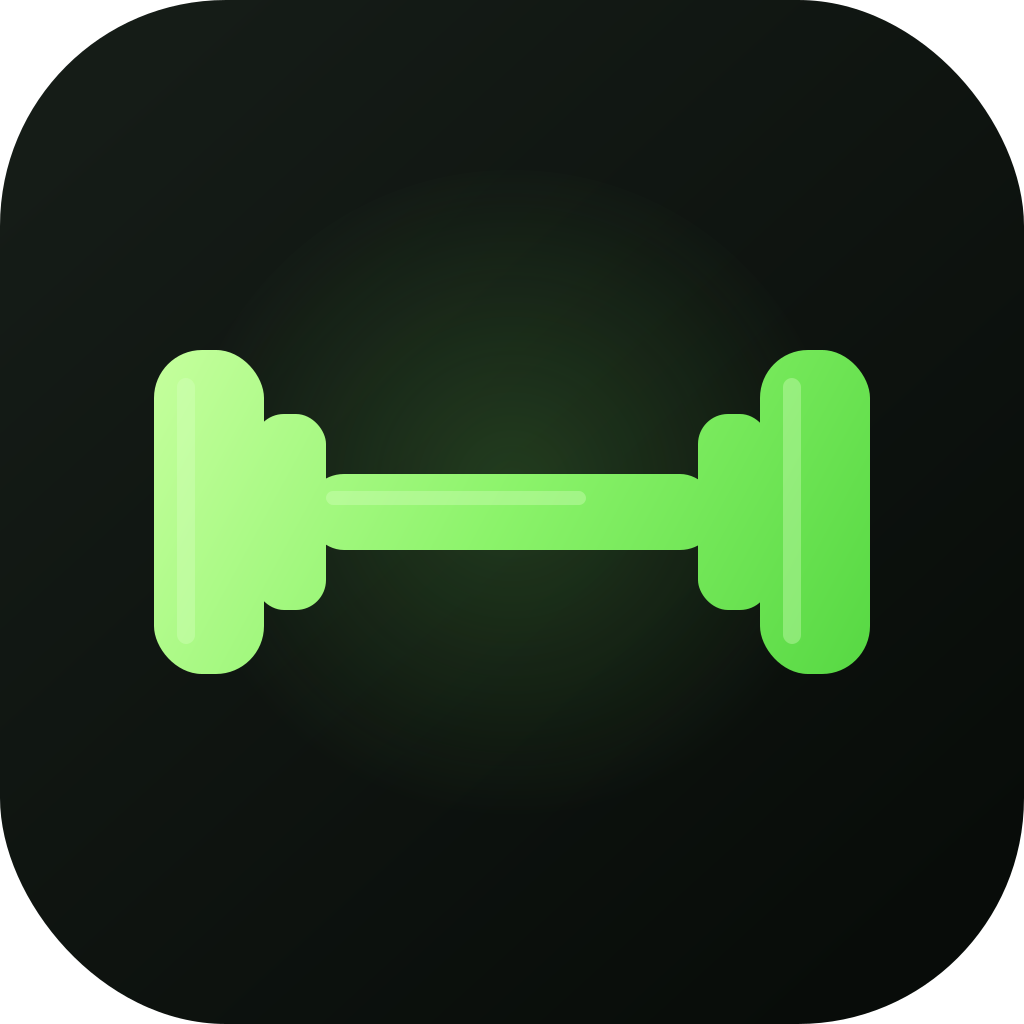
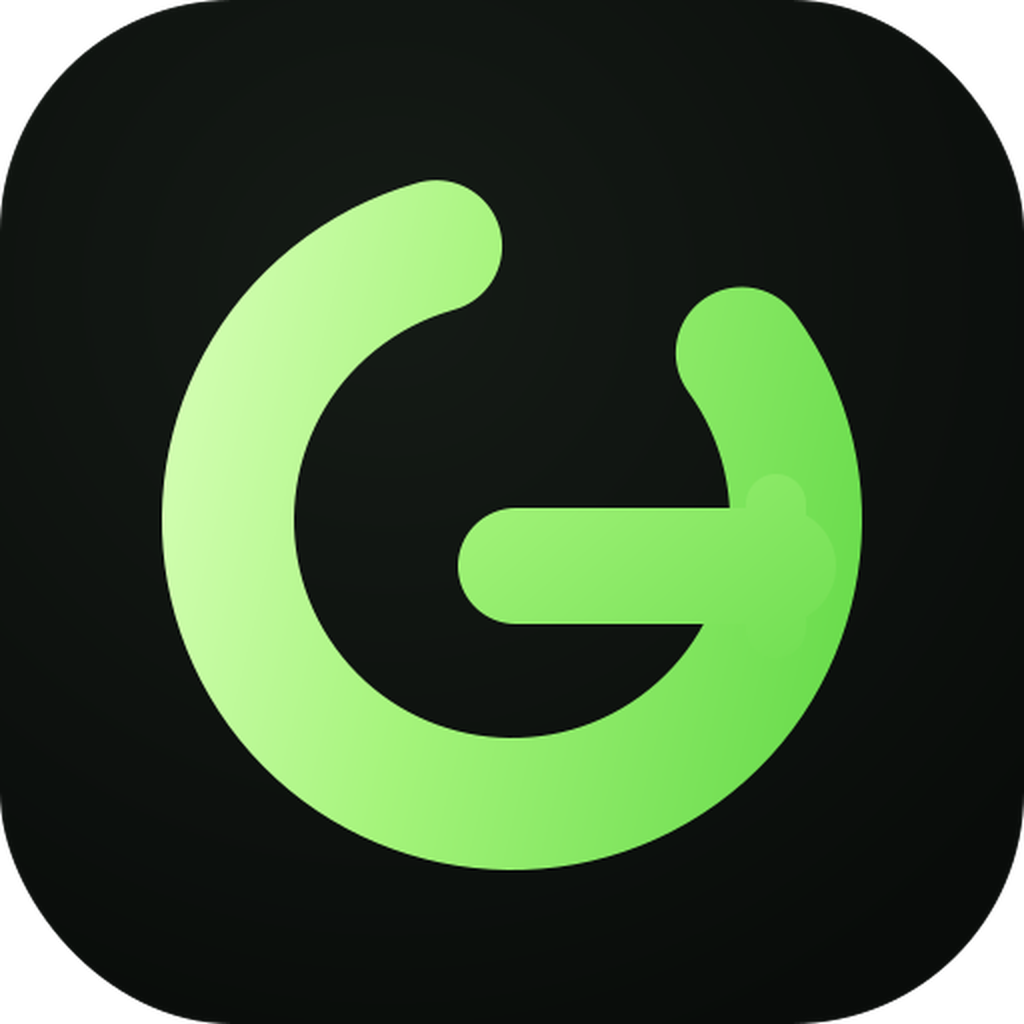
Add files via upload

diff --git a/app.js b/app.js
@@ -20,8 +20,19 @@ function exerciseMedia(id,e,extraClass=''){
   const fallback=FILE_EXERCISE_MEDIA[id]||'';
   return `<div class="exercise-media anatomical-media ${extraClass}"><img src="${src}" data-fallback="${fallback}" alt="Ilustração anatômica de ${e.name}, com a musculatura trabalhada destacada" loading="lazy" decoding="async" onerror="handleExerciseImageError(this)"></div>`;
 }
-function brandMark(){
- return `<img class="gym-brand-img" src="./gym-icon-v62-512.png?v=6.2" alt="GYM">`;
+function brandMark(){return `<svg class="gym-mark" viewBox="0 0 120 120" role="img" aria-label="GYM"><rect x="3" y="3" width="114" height="114" rx="30" fill="#15131b" stroke="#6fe356" stroke-width="4"/><path d="M46 52 60 64 74 52 87 63v18L60 105 33 81V63z" fill="none" stroke="#6fe356" stroke-width="7" stroke-linejoin="round"/><path d="M18 55h11m-6-10v20m74-10h-6m3-10v20M29 49v12m62-12v12" stroke="#6fe356" stroke-width="7" stroke-linecap="round"/><path d="m48 30 8-12 7 10 9-12 9 14" fill="none" stroke="#f0c35a" stroke-width="6" stroke-linecap="round" stroke-linejoin="round"/><path d="M47 34h36" stroke="#f0c35a" stroke-width="6" stroke-linecap="round"/></svg>`}
+
+const icon=n=>`<svg class="icon"><use href="#i-${n}"></use></svg>`;
+const today=()=>new Date().toISOString().slice(0,10);
+const uid=()=>crypto.randomUUID?.()||Math.random().toString(36).slice(2);
+const fmt=d=>new Date(d+'T12:00:00').toLocaleDateString('pt-BR',{day:'2-digit',month:'short'});
+const clamp=(n,a,b)=>Math.max(a,Math.min(b,n));
+
+const EVIDENCE={
+ acsm:{title:'ACSM Position Stand — Resistance Training (2026)',note:'A programação prioriza regularidade, esforço adequado, progressão e trabalho dos grandes grupos musculares; complexidade não substitui consistência.',url:'https://acsm.org/resistance-training-guidelines-update-2026/'},
+ who:{title:'WHO Guidelines on Physical Activity',note:'A meta de cardio é progressiva e considera a recomendação populacional de 150–300 min/semana de atividade moderada, respeitando tolerância individual.',url:'https://www.who.int/publications/i/item/9789240015128'},
+ obesity:{title:'Lopez et al. — Systematic review and meta-analysis',note:'Programas baseados em treinamento resistido podem melhorar composição corporal em pessoas com sobrepeso ou obesidade, especialmente em abordagem multicomponente.',url:'https://pubmed.ncbi.nlm.nih.gov/35191588/'},
+ knee:{title:'Resistance training and knee symptoms — systematic reviews',note:'Fortalecimento pode integrar o manejo de sintomas e função, mas dose, amplitude e seleção precisam ser individualizadas e interrompidas diante de sinais de alerta.',url:'https://pubmed.ncbi.nlm.nih.gov/38980284/'}
 };
 
 const CARDIO={"treadmill":{"name":"Esteira","short":"esteira","desc":"Caminhada ou trote com velocidade e inclinação controladas.","impact":"médio"},"elliptical":{"name":"Elíptico","short":"elíptico","desc":"Cardio contínuo com baixo impacto.","impact":"baixo"},"bike_h":{"name":"Bike horizontal","short":"bike horizontal","desc":"Opção estável e confortável para maior suporte.","impact":"baixo"},"bike_v":{"name":"Bike vertical","short":"bike vertical","desc":"Bicicleta ergométrica tradicional ou spinning.","impact":"baixo"},"walk":{"name":"Caminhada externa","short":"caminhada","desc":"Cardio fora da academia com ritmo registrado.","impact":"baixo"},"stair":{"name":"Escada","short":"escada","desc":"Escada ergométrica com nível ajustável.","impact":"médio"},"rower":{"name":"Remo ergométrico","short":"remo","desc":"Cardio que integra pernas, tronco e braços.","impact":"baixo"},"jump_rope":{"name":"Pular corda","short":"corda","desc":"Cardio de maior impacto e coordenação.","impact":"alto"},"curved_treadmill":{"name":"Esteira curva manual","short":"esteira curva","desc":"Caminhada ou corrida em esteira sem motor.","impact":"médio"}};
@@ -267,7 +278,7 @@ function cardioSummaryBlock(){
 
 function reportsScreen(){
  const sessions=Array.isArray(state.sessions)?state.sessions:[],mins=sessions.reduce((a,x)=>a+(+x?.duration||0),0),cardio=sessions.reduce((a,x)=>a+(+x?.cardio||0),0),metrics=(Array.isArray(state.metrics)?state.metrics:[]).slice(-10),lastMetric=metrics.length?metrics[metrics.length-1]:null,readiness=overallRecoveryScore();
- return `<section class="hero"><span class="eyebrow">RELATÓRIOS</span><h2>Progresso de fácil leitura.</h2><p>Treino, peso, volume, aderência, cardio e recuperação no mesmo painel.</p></section><div class="card report-export-card"><div class="row between report-export-row"><div><span class="eyebrow">RELATÓRIO COMPLETO</span><h3 style="margin-top:5px">Gerar relatório em PDF</h3><p class="muted small">Abre uma versão organizada para salvar como PDF ou imprimir.</p></div><div class="report-export-actions"><select id="pdfPeriod" aria-label="Período do relatório"><option value="30">Últimos 30 dias</option><option value="90" selected>Últimos 90 dias</option><option value="180">Últimos 6 meses</option><option value="all">Todo o histórico</option></select><button class="btn primary" onclick="generateProgressPdf()">${icon('chart')} Gerar PDF</button></div></div></div><div class="grid grid3 premium-metrics" style="margin-top:12px"><div class="metric"><b>${sessions.length}</b><span>treinos concluídos</span></div><div class="metric"><b>${mins}</b><span>min de força</span></div><div class="metric"><b>${cardio}</b><span>min de cardio</span></div></div><div class="card premium-insight"><span class="eyebrow">RESUMO PREMIUM</span><div class="grid grid3" style="margin-top:10px"><div><b>${readiness}%</b><span>prontidão geral</span></div><div><b>${Math.round(sessions.length/Math.max(1,+state.profile?.days||1)*100)}%</b><span>aderência acumulada</span></div><div><b>${lastMetric?.weight||state.profile?.weight||'—'} kg</b><span>peso mais recente</span></div></div></div><div class="card premium-recovery"><div class="row between"><div><h3>Fadiga e recuperação muscular</h3><span class="muted small">Grupos com maior fadiga aparecem primeiro.</span></div><div class="recovery-ring small-ring" style="--score:${readiness*3.6}deg"><div><b>${readiness}%</b><span>${overallRecoveryLabel()}</span></div></div></div>${recoveryCheckinSummary()}<button class="btn secondary block" style="margin:10px 0 12px" onclick="recoveryCheckinModal()">Atualizar check-in</button>${recoveryBlock(8,true)}</div><div class="card"><div class="row between"><div><h3>Peso</h3><span class="muted small">Últimos registros</span></div><button class="btn secondary sm" onclick="metricModal()">${icon('plus')} Registrar</button></div>${weightChart(metrics)}</div><div class="card"><h3>Volume por sessão</h3>${volumeChart(sessions.slice(-8))}</div><div class="card"><h3>Cardio por aparelho</h3>${cardioSummaryBlock()}</div><div class="card"><h3>Evolução por exercício</h3><select id="reportEx" onchange="renderExerciseReport(this.value)">${Object.entries(EX).map(([id,e])=>`<option value="${id}">${e.name}</option>`).join('')}</select><div id="exerciseReport">${exerciseReportHtml('legpressh')}</div></div><div class="card"><h3>Histórico</h3>${sessions.slice().reverse().map(x=>`<div class="row between" style="padding:11px 0;border-bottom:1px solid var(--line)"><div><b>${x.name}</b><div class="muted small">${fmt(x.date)} · ${x.duration} min · cardio ${x.cardio} min${x.cardioType?` · ${cardioName(x.cardioType)}`:''}</div></div><button class="btn secondary sm" onclick="sessionDetail('${x.id}')">Ver</button></div>`).join('')||'<p class="muted">Seu relatório aparece após o primeiro treino.</p>'}</div>`;
+ return `<section class="hero"><span class="eyebrow">RELATÓRIOS</span><h2>Progresso de fácil leitura.</h2><p>Treino, peso, volume, aderência, cardio e recuperação no mesmo painel.</p></section><div class="card report-export-card"><div class="row between report-export-row"><div><span class="eyebrow">RELATÓRIO COMPLETO</span><h3 style="margin-top:5px">Gerar relatório em PDF</h3><p class="muted small">Abre uma versão organizada para salvar como PDF ou imprimir.</p></div><div class="report-export-actions"><select id="pdfPeriod" aria-label="Período do relatório"><option value="month" selected>Mês atual</option><option value="30">Últimos 30 dias</option><option value="90">Últimos 90 dias</option><option value="180">Últimos 6 meses</option><option value="all">Todo o histórico</option></select><button class="btn primary" onclick="generateProgressPdf()">${icon('chart')} Gerar PDF</button></div></div></div><div class="grid grid3 premium-metrics" style="margin-top:12px"><div class="metric"><b>${sessions.length}</b><span>treinos concluídos</span></div><div class="metric"><b>${mins}</b><span>min de força</span></div><div class="metric"><b>${cardio}</b><span>min de cardio</span></div></div><div class="card premium-insight"><span class="eyebrow">RESUMO PREMIUM</span><div class="grid grid3" style="margin-top:10px"><div><b>${readiness}%</b><span>prontidão geral</span></div><div><b>${Math.round(sessions.length/Math.max(1,+state.profile?.days||1)*100)}%</b><span>aderência acumulada</span></div><div><b>${lastMetric?.weight||state.profile?.weight||'—'} kg</b><span>peso mais recente</span></div></div></div><div class="card premium-recovery"><div class="row between"><div><h3>Fadiga e recuperação muscular</h3><span class="muted small">Grupos com maior fadiga aparecem primeiro.</span></div><div class="recovery-ring small-ring" style="--score:${readiness*3.6}deg"><div><b>${readiness}%</b><span>${overallRecoveryLabel()}</span></div></div></div>${recoveryCheckinSummary()}<button class="btn secondary block" style="margin:10px 0 12px" onclick="recoveryCheckinModal()">Atualizar check-in</button>${recoveryBlock(8,true)}</div><div class="card"><div class="row between"><div><h3>Peso</h3><span class="muted small">Últimos registros</span></div><button class="btn secondary sm" onclick="metricModal()">${icon('plus')} Registrar</button></div>${weightChart(metrics)}</div><div class="card"><h3>Volume por sessão</h3>${volumeChart(sessions.slice(-8))}</div><div class="card"><h3>Cardio por aparelho</h3>${cardioSummaryBlock()}</div><div class="card"><h3>Evolução por exercício</h3><select id="reportEx" onchange="renderExerciseReport(this.value)">${Object.entries(EX).map(([id,e])=>`<option value="${id}">${e.name}</option>`).join('')}</select><div id="exerciseReport">${exerciseReportHtml('legpressh')}</div></div><div class="card"><h3>Histórico</h3>${sessions.slice().reverse().map(x=>`<div class="row between" style="padding:11px 0;border-bottom:1px solid var(--line)"><div><b>${x.name}</b><div class="muted small">${fmt(x.date)} · ${x.duration} min · cardio ${x.cardio} min${x.cardioType?` · ${cardioName(x.cardioType)}`:''}</div></div><button class="btn secondary sm" onclick="sessionDetail('${x.id}')">Ver</button></div>`).join('')||'<p class="muted">Seu relatório aparece após o primeiro treino.</p>'}</div>`;
 }
 function weightChart(a){if(!a.length)return '<p class="muted">Sem dados.</p>';const vals=a.map(x=>+x.weight),min=Math.min(...vals)-1,max=Math.max(...vals)+1;return `<div class="chart">${a.map(x=>`<div class="chartbar" style="height:${35+(x.weight-min)/(max-min||1)*120}px"><b>${x.weight}</b><small>${fmt(x.date)}</small></div>`).join('')}</div>`}
 function sessionVolume(s){return (s?.exercises||[]).reduce((sum,e)=>sum+(e?.sets||[]).reduce((a,x)=>a+(x?.done?(+x.kg||0)*(+x.reps||0):0),0),0)}
@@ -284,6 +295,10 @@ function reportDate(value){if(!value)return '—';const d=new Date(String(value)
 function reportPeriodData(period){
  const allSessions=(Array.isArray(state.sessions)?state.sessions:[]).slice().sort((a,b)=>String(a.date).localeCompare(String(b.date))),allMetrics=(Array.isArray(state.metrics)?state.metrics:[]).slice().sort((a,b)=>String(a.date).localeCompare(String(b.date)));
  if(period==='all')return {sessions:allSessions,metrics:allMetrics,start:null};
+ if(period==='month'){
+  const now=new Date(),year=now.getFullYear(),month=now.getMonth()+1,iso=`${year}-${String(month).padStart(2,'0')}-01`;
+  return {sessions:allSessions.filter(x=>String(x.date||'')>=iso&&String(x.date||'')<=today()),metrics:allMetrics.filter(x=>String(x.date||'')>=iso&&String(x.date||'')<=today()),start:iso};
+ }
  const days=Math.max(1,+period||90),start=new Date();start.setHours(0,0,0,0);start.setDate(start.getDate()-days+1);const iso=start.toISOString().slice(0,10);
  return {sessions:allSessions.filter(x=>x.date>=iso),metrics:allMetrics.filter(x=>x.date>=iso),start:iso};
 }
@@ -554,14 +569,14 @@ function reportExerciseProgress(sessions){const map={};sessions.forEach(session=
 
 reportsScreen=function(){
  const sessions=Array.isArray(state.sessions)?state.sessions:[],mins=sessions.reduce((a,x)=>a+(+x?.duration||0),0),cardio=sessions.reduce((a,x)=>a+(+x?.cardio||0),0),metrics=(Array.isArray(state.metrics)?state.metrics:[]).slice(-10),lastMetric=metrics.at(-1)||null,readiness=overallRecoveryScore(),last7=sessionsSince(7),previous7=sessionsBetweenDays(14,7),last30=sessionsSince(30),previous30=sessionsBetweenDays(60,30),avgDuration=sessions.length?Math.round(mins/sessions.length):0,top=mostPerformedExercises(sessions),records=personalRecords(sessions);
- return `<section class="hero"><span class="eyebrow">RELATÓRIOS</span><h2>Sua evolução em um só lugar.</h2><p>Treinos, cargas, frequência, cardio, peso e recuperação no mesmo painel.</p></section><div class="card report-export-card"><div class="row between report-export-row"><div><span class="eyebrow">RELATÓRIO COMPLETO</span><h3 style="margin-top:5px">Gerar relatório em PDF</h3><p class="muted small">Abre uma versão organizada para salvar como PDF ou imprimir.</p></div><div class="report-export-actions"><select id="pdfPeriod" aria-label="Período do relatório"><option value="30">Últimos 30 dias</option><option value="90" selected>Últimos 90 dias</option><option value="180">Últimos 6 meses</option><option value="all">Todo o histórico</option></select><button class="btn primary" onclick="generateProgressPdf()">${icon('chart')} Gerar PDF</button></div></div></div><div class="grid grid3 premium-metrics" style="margin-top:12px"><div class="metric"><b>${sessions.length}</b><span>treinos concluídos</span></div><div class="metric"><b>${avgDuration}</b><span>min por treino</span></div><div class="metric"><b>${cardio}</b><span>min de cardio</span></div></div><div class="card premium-insight"><span class="eyebrow">FREQUÊNCIA</span><div class="grid grid3" style="margin-top:10px"><div><b>${last7.length}/${Math.max(1,+state.profile?.days||1)}</b><span>últimos 7 dias</span></div><div><b>${last30.length}</b><span>últimos 30 dias</span></div><div><b>${previous30.length}</b><span>30 dias anteriores</span></div></div><p class="muted small">${comparisonText(last30.length,previous30.length)}.</p></div><div class="card premium-recovery"><div class="row between"><div><h3>Fadiga e recuperação muscular</h3><span class="muted small">Grupos com maior fadiga aparecem primeiro.</span></div><div class="recovery-ring small-ring" style="--score:${readiness*3.6}deg"><div><b>${readiness}%</b><span>${overallRecoveryLabel()}</span></div></div></div>${recoveryCheckinSummary()}<button class="btn secondary block" style="margin:10px 0 12px" onclick="recoveryCheckinModal()">Atualizar check-in</button>${recoveryBlock(8,true)}</div><div class="card"><div class="row between"><div><h3>Peso e medidas</h3><span class="muted small">Últimos registros</span></div><button class="btn secondary sm" onclick="metricModal()">${icon('plus')} Registrar</button></div>${weightChart(metrics)}</div><div class="grid grid2"><div class="card"><h3>Exercícios mais realizados</h3>${top.length?top.map(([id,count],i)=>`<div class="row between report-list-row"><span>${i+1}. ${EX[id]?.name||id}</span><b>${count}×</b></div>`).join(''):'<p class="muted">Sem dados ainda.</p>'}</div><div class="card"><h3>Recordes pessoais</h3>${records.length?records.map(([id,kg])=>`<div class="row between report-list-row"><span>${EX[id]?.name||id}</span><b>${kg} kg</b></div>`).join(''):'<p class="muted">Registre cargas para ver seus recordes.</p>'}</div></div><div class="card"><h3>Cardio por aparelho</h3>${cardioSummaryBlock()}</div><div class="card"><h3>Evolução das cargas</h3><select id="reportEx" onchange="renderExerciseReport(this.value)">${Object.entries(EX).map(([id,e])=>`<option value="${id}">${e.name}</option>`).join('')}</select><div id="exerciseReport">${exerciseReportHtml('legpressh')}</div></div><div class="card"><h3>Histórico</h3>${sessions.slice().reverse().map(x=>`<div class="row between" style="padding:11px 0;border-bottom:1px solid var(--line)"><div><b>${x.name}</b><div class="muted small">${fmt(x.date)} · ${x.duration} min${+x.cardio>0?` · cardio ${x.cardio} min · ${cardioName(x.cardioType)}`:''}</div></div><button class="btn secondary sm" onclick="sessionDetail('${x.id}')">Ver</button></div>`).join('')||'<p class="muted">Seu relatório aparece após o primeiro treino.</p>'}</div>`;
+ return `<section class="hero"><span class="eyebrow">RELATÓRIOS</span><h2>Sua evolução em um só lugar.</h2><p>Treinos, cargas, frequência, cardio, peso e recuperação no mesmo painel.</p></section><div class="card report-export-card"><div class="row between report-export-row"><div><span class="eyebrow">RELATÓRIO COMPLETO</span><h3 style="margin-top:5px">Gerar relatório em PDF</h3><p class="muted small">Abre uma versão organizada para salvar como PDF ou imprimir.</p></div><div class="report-export-actions"><select id="pdfPeriod" aria-label="Período do relatório"><option value="month" selected>Mês atual</option><option value="30">Últimos 30 dias</option><option value="90">Últimos 90 dias</option><option value="180">Últimos 6 meses</option><option value="all">Todo o histórico</option></select><button class="btn primary" onclick="generateProgressPdf()">${icon('chart')} Gerar PDF</button></div></div></div><div class="grid grid3 premium-metrics" style="margin-top:12px"><div class="metric"><b>${sessions.length}</b><span>treinos concluídos</span></div><div class="metric"><b>${avgDuration}</b><span>min por treino</span></div><div class="metric"><b>${cardio}</b><span>min de cardio</span></div></div><div class="card premium-insight"><span class="eyebrow">FREQUÊNCIA</span><div class="grid grid3" style="margin-top:10px"><div><b>${last7.length}/${Math.max(1,+state.profile?.days||1)}</b><span>últimos 7 dias</span></div><div><b>${last30.length}</b><span>últimos 30 dias</span></div><div><b>${previous30.length}</b><span>30 dias anteriores</span></div></div><p class="muted small">${comparisonText(last30.length,previous30.length)}.</p></div><div class="card premium-recovery"><div class="row between"><div><h3>Fadiga e recuperação muscular</h3><span class="muted small">Grupos com maior fadiga aparecem primeiro.</span></div><div class="recovery-ring small-ring" style="--score:${readiness*3.6}deg"><div><b>${readiness}%</b><span>${overallRecoveryLabel()}</span></div></div></div>${recoveryCheckinSummary()}<button class="btn secondary block" style="margin:10px 0 12px" onclick="recoveryCheckinModal()">Atualizar check-in</button>${recoveryBlock(8,true)}</div><div class="card"><div class="row between"><div><h3>Peso e medidas</h3><span class="muted small">Últimos registros</span></div><button class="btn secondary sm" onclick="metricModal()">${icon('plus')} Registrar</button></div>${weightChart(metrics)}</div><div class="grid grid2"><div class="card"><h3>Exercícios mais realizados</h3>${top.length?top.map(([id,count],i)=>`<div class="row between report-list-row"><span>${i+1}. ${EX[id]?.name||id}</span><b>${count}×</b></div>`).join(''):'<p class="muted">Sem dados ainda.</p>'}</div><div class="card"><h3>Recordes pessoais</h3>${records.length?records.map(([id,kg])=>`<div class="row between report-list-row"><span>${EX[id]?.name||id}</span><b>${kg} kg</b></div>`).join(''):'<p class="muted">Registre cargas para ver seus recordes.</p>'}</div></div><div class="card"><h3>Cardio por aparelho</h3>${cardioSummaryBlock()}</div><div class="card"><h3>Evolução das cargas</h3><select id="reportEx" onchange="renderExerciseReport(this.value)">${Object.entries(EX).map(([id,e])=>`<option value="${id}">${e.name}</option>`).join('')}</select><div id="exerciseReport">${exerciseReportHtml('legpressh')}</div></div><div class="card"><h3>Histórico</h3>${sessions.slice().reverse().map(x=>`<div class="row between" style="padding:11px 0;border-bottom:1px solid var(--line)"><div><b>${x.name}</b><div class="muted small">${fmt(x.date)} · ${x.duration} min${+x.cardio>0?` · cardio ${x.cardio} min · ${cardioName(x.cardioType)}`:''}</div></div><button class="btn secondary sm" onclick="sessionDetail('${x.id}')">Ver</button></div>`).join('')||'<p class="muted">Seu relatório aparece após o primeiro treino.</p>'}</div>`;
 };
 
 generateProgressPdf=function(){
  const period=document.getElementById('pdfPeriod')?.value||'90',data=reportPeriodData(period),sessions=data.sessions,metrics=data.metrics,profile=state.profile||{},readiness=overallRecoveryScore(),strengthMinutes=sessions.reduce((sum,x)=>sum+(+x.duration||0),0),cardioMinutes=sessions.reduce((sum,x)=>sum+(+x.cardio||0),0),avgDuration=sessions.length?Math.round(strengthMinutes/sessions.length):0;
  const firstWeight=metrics.length?+metrics[0].weight:null,lastWeight=metrics.length?+metrics.at(-1).weight:null,weightDelta=firstWeight!==null&&lastWeight!==null?lastWeight-firstWeight:null,endLabel=reportDate(today()),startLabel=data.start?reportDate(data.start):(sessions[0]?.date?reportDate(sessions[0].date):'início do histórico');
  const cardioMap={};sessions.forEach(x=>{if(+x.cardio>0){const id=x.cardioType||'other';cardioMap[id]=(cardioMap[id]||0)+(+x.cardio||0)}});const cardioRows=Object.entries(cardioMap).sort((a,b)=>b[1]-a[1]),exerciseRows=reportExerciseProgress(sessions),recoveryRows=recoveryData().filter(x=>x.days!==null).sort((a,b)=>b.fatigue-a.fatigue),history=sessions.slice(-20).reverse(),top=mostPerformedExercises(sessions),records=personalRecords(sessions,10);
- const periodDays=period==='all'?Math.max(1,sessions.length?Math.round((new Date(today()+'T12:00:00')-new Date(sessions[0].date+'T12:00:00'))/86400000)+1:1):+period,previousStart=startOfDaysAgo(periodDays*2),previousEnd=startOfDaysAgo(periodDays),previousSessions=(state.sessions||[]).filter(s=>{const d=new Date(s.date+'T12:00:00');return d>=previousStart&&d<previousEnd});
+ const periodDays=period==='month'?Math.max(1,new Date().getDate()):period==='all'?Math.max(1,sessions.length?Math.round((new Date(today()+'T12:00:00')-new Date(sessions[0].date+'T12:00:00'))/86400000)+1:1):+period,previousStart=startOfDaysAgo(periodDays*2),previousEnd=startOfDaysAgo(periodDays),previousSessions=(state.sessions||[]).filter(s=>{const d=new Date(s.date+'T12:00:00');return d>=previousStart&&d<previousEnd});
  const win=window.open('','_blank');if(!win){toast('O navegador bloqueou a abertura do relatório. Permita pop-ups e tente novamente.');return;}
  const weightText=lastWeight===null?'—':`${lastWeight.toFixed(1)} kg`,deltaText=weightDelta===null?'Sem comparação':`${weightDelta>0?'+':''}${weightDelta.toFixed(1)} kg`;
  const html=`<!doctype html><html lang="pt-BR"><head><meta charset="utf-8"><meta name="viewport" content="width=device-width,initial-scale=1"><title>Relatório de progresso GYM</title><style>@page{size:A4;margin:12mm}*{box-sizing:border-box}body{font-family:Arial,Helvetica,sans-serif;color:#1d1b22;margin:0;background:#fff;font-size:12px;line-height:1.45}.top-actions{position:sticky;top:0;background:#fff;padding:10px 0;border-bottom:1px solid #ddd;margin-bottom:14px}.top-actions button{border:0;border-radius:8px;padding:10px 16px;background:#66d34e;color:#fff;font-weight:700}.head{display:flex;justify-content:space-between;gap:20px;border-bottom:3px solid #66d34e;padding-bottom:12px;margin-bottom:16px}.brand{font-size:26px;font-weight:900}.brand span{display:block;color:#66d34e;font-size:11px;letter-spacing:2px}.muted{color:#666}.grid{display:grid;grid-template-columns:repeat(4,1fr);gap:8px;margin:12px 0 18px}.metric{border:1px solid #ddd;border-radius:10px;padding:10px}.metric b{display:block;font-size:18px;color:#4fb83a}.section{margin:16px 0;page-break-inside:avoid}.section h2{font-size:16px;margin:0 0 8px;border-left:4px solid #66d34e;padding-left:8px}table{width:100%;border-collapse:collapse;font-size:11px}th,td{border:1px solid #ddd;padding:7px;text-align:left;vertical-align:top}th{background:#f5edf1}.pill{display:inline-block;border-radius:999px;background:#f4e6ec;padding:3px 7px}.note{background:#f7f7f7;border-radius:8px;padding:10px;margin-top:12px}.footer{margin-top:18px;border-top:1px solid #ddd;padding-top:8px;color:#666;font-size:10px}.empty{color:#777;font-style:italic}.bar{height:7px;background:#eee;border-radius:6px;overflow:hidden;margin-top:4px}.bar span{display:block;height:100%;background:#66d34e}@media print{.top-actions{display:none}.section{break-inside:avoid}body{font-size:11px}}</style></head><body><div class="top-actions"><button onclick="window.print()">Salvar como PDF / Imprimir</button></div><header class="head"><div><div class="brand">GYM<span>RELATÓRIO DE PROGRESSO</span></div><div class="muted">${reportEscape(profile.name||'Atleta')}</div></div><div style="text-align:right"><b>Período</b><br>${startLabel} a ${endLabel}<br><span class="muted">Gerado em ${new Date().toLocaleString('pt-BR')}</span></div></header><div class="grid"><div class="metric"><b>${sessions.length}</b>treinos concluídos</div><div class="metric"><b>${avgDuration}</b>min por treino</div><div class="metric"><b>${cardioMinutes}</b>min de cardio</div><div class="metric"><b>${comparisonText(sessions.length,previousSessions.length)}</b>comparação</div><div class="metric"><b>${weightText}</b>peso mais recente</div><div class="metric"><b>${deltaText}</b>variação de peso</div><div class="metric"><b>${readiness}%</b>prontidão atual</div><div class="metric"><b>${records.length}</b>recordes registrados</div></div><section class="section"><h2>Evolução de peso e medidas</h2>${metrics.length?`<table><thead><tr><th>Data</th><th>Peso</th><th>Cintura</th><th>Abdômen</th><th>Quadril</th><th>Coxa</th></tr></thead><tbody>${metrics.map(x=>`<tr><td>${reportDate(x.date)}</td><td>${x.weight??'—'} kg</td><td>${x.waist??'—'}</td><td>${x.abd??'—'}</td><td>${x.hip??'—'}</td><td>${x.thigh??'—'}</td></tr>`).join('')}</tbody></table>`:'<p class="empty">Nenhum registro de peso ou medidas neste período.</p>'}</section><section class="section"><h2>Evolução das cargas</h2>${exerciseRows.length?`<table><thead><tr><th>Exercício</th><th>Sessões</th><th>Primeira carga máx.</th><th>Última carga máx.</th><th>Recorde</th></tr></thead><tbody>${exerciseRows.slice(0,30).map(x=>`<tr><td>${reportEscape(EX[x.id]?.name||x.id)}</td><td>${x.count}</td><td>${x.firstKg||'—'} kg</td><td>${x.lastKg||'—'} kg</td><td>${x.bestKg||'—'} kg</td></tr>`).join('')}</tbody></table>`:'<p class="empty">Ainda não existem cargas registradas neste período.</p>'}</section><section class="section"><h2>Exercícios mais realizados</h2>${top.length?`<table><thead><tr><th>Exercício</th><th>Sessões</th></tr></thead><tbody>${top.map(([id,count])=>`<tr><td>${reportEscape(EX[id]?.name||id)}</td><td>${count}</td></tr>`).join('')}</tbody></table>`:'<p class="empty">Sem dados.</p>'}</section><section class="section"><h2>Cardio por aparelho</h2>${cardioRows.length?`<table><thead><tr><th>Modalidade</th><th>Minutos</th></tr></thead><tbody>${cardioRows.map(([id,min])=>`<tr><td>${reportEscape(id==='other'?'Outro cardio':cardioName(id))}</td><td>${Math.round(min)}</td></tr>`).join('')}</tbody></table>`:'<p class="empty">Nenhum cardio registrado neste período.</p>'}</section><section class="section"><h2>Fadiga e recuperação atual</h2>${recoveryRows.length?`<table><thead><tr><th>Grupo muscular</th><th>Status</th><th>Fadiga estimada</th><th>Orientação</th></tr></thead><tbody>${recoveryRows.map(x=>`<tr><td>${reportEscape(x.label)}</td><td><span class="pill">${reportEscape(x.status)}</span></td><td>${x.fatigue}%<div class="bar"><span style="width:${x.fatigue}%"></span></div></td><td>${reportEscape(x.recommendation)}</td></tr>`).join('')}</tbody></table>`:'<p class="empty">Conclua treinos para calcular a estimativa por grupo muscular.</p>'}<div class="note">A fadiga é uma estimativa organizacional baseada em tempo desde o treino, séries, esforço geral, desconforto e check-in. Não é uma medição clínica.</div></section><section class="section"><h2>Histórico recente</h2>${history.length?`<table><thead><tr><th>Data</th><th>Treino</th><th>Duração</th><th>Cardio</th><th>RPE</th></tr></thead><tbody>${history.map(x=>`<tr><td>${reportDate(x.date)}</td><td>${reportEscape(x.name||'Treino')}</td><td>${+x.duration||0} min</td><td>${+x.cardio||0} min${x.cardioType?` - ${reportEscape(cardioName(x.cardioType))}`:''}</td><td>${x.rpe||'—'}</td></tr>`).join('')}</tbody></table>`:'<p class="empty">Nenhum treino concluído neste período.</p>'}</section><div class="footer">Relatório gerado pelo GYM Premium. Dados informados pela própria pessoa usuária e destinados ao acompanhamento pessoal. Não substitui avaliação de profissional de Educação Física ou de saúde.</div></body></html>`;
@@ -1025,11 +1040,11 @@ bodyHistoryModal=function(){
 
 
 /* ===== GYM v6.0 INDIVIDUAL ===== */
-const GYM_V60='6.2.0';
+const GYM_V60='6.2.1';
 let bodyChartPeriod='all';
 
 function brandMark(){
- return `<img class="gym-brand-img" src="./gym-icon-v62-512.png?v=6.2" alt="GYM">`;
+ return `<svg class="gym-mark" viewBox="0 0 120 120" role="img" aria-label="GYM"><defs><linearGradient id="gymBrandGradient" x1="25" y1="18" x2="96" y2="104" gradientUnits="userSpaceOnUse"><stop offset="0" stop-color="#d8ffb8"/><stop offset=".42" stop-color="#a5f47b"/><stop offset="1" stop-color="#63d947"/></linearGradient></defs><rect x="3" y="3" width="114" height="114" rx="30" fill="#0b100c"/><circle cx="60" cy="59" r="33" fill="none" stroke="url(#gymBrandGradient)" stroke-width="15" stroke-linecap="round" stroke-dasharray="168 55" transform="rotate(-36 60 59)"/><path d="M61 65h31" fill="none" stroke="url(#gymBrandGradient)" stroke-width="13" stroke-linecap="round"/><path d="M91 58v15" fill="none" stroke="url(#gymBrandGradient)" stroke-width="7" stroke-linecap="round"/></svg>`;
 }
 
 const normalizeStateV60Base=normalizeState;
@@ -1165,7 +1180,7 @@ const profileScreenV60Base=profileScreen;
 profileScreen=function(){
  let html=profileScreenV60Base(),prefs=exercisePrefs(),t=state.profile?.trainingPrefs||{};
  const block=`<div class="card"><h3>Avaliação e preferências</h3><p class="muted small">${t.experience==='beginner'?'Iniciante':t.experience==='advanced'?'Avançada':'Intermediária'} · ${t.preferredDuration||state.profile?.duration||60} min por treino · ${prefs.favorite.length} favoritos · ${prefs.avoid.length} evitados.</p><div class="grid grid2"><button class="btn secondary block" onclick="trainingAssessmentModal(false)">Atualizar avaliação</button><button class="btn ghost block" onclick="exercisePreferencesModal()">Favoritos e evitados</button></div></div>`;
- const anchor='<div class="card"><h3>Conta e sincronização</h3>';html=html.includes(anchor)?html.replace(anchor,block+anchor):html+block;html=html.replace(/GYM Premium v5\.18/g,'GYM v6.2 Individual');return html;
+ const anchor='<div class="card"><h3>Conta e sincronização</h3>';html=html.includes(anchor)?html.replace(anchor,block+anchor):html+block;html=html.replace(/GYM Premium v5\.18/g,'GYM v6.2.1 Individual');return html;
 };
 
 const reportsScreenV60Base=reportsScreen;
@@ -1187,33 +1202,4 @@ recoveryBlock=function(limit=8,detailed=false){const arr=recoveryData().filter(x
 
 /* ===== fim GYM v6.0 INDIVIDUAL ===== */
 
-
-/* ===== GYM v6.2 — logo consistente + relatório do mês atual ===== */
-const reportPeriodDataV62Base=reportPeriodData;
-reportPeriodData=function(period){
- if(period!=='month')return reportPeriodDataV62Base(period);
- const now=new Date(),year=now.getFullYear(),month=now.getMonth();
- const start=new Date(year,month,1);start.setHours(0,0,0,0);
- const end=new Date(year,month+1,1);end.setHours(0,0,0,0);
- const sessions=(state.sessions||[]).filter(item=>{const d=new Date(item.date+'T12:00:00');return d>=start&&d<end});
- const metrics=(state.metrics||[]).filter(item=>{const d=new Date(item.date+'T12:00:00');return d>=start&&d<end});
- return {sessions,metrics,start:`${year}-${String(month+1).padStart(2,'0')}-01`,end:today(),label:`${start.toLocaleDateString('pt-BR',{month:'long',year:'numeric'})}`};
-};
-function currentMonthReportLabel(){
- const txt=new Date().toLocaleDateString('pt-BR',{month:'long',year:'numeric'});
- return txt.charAt(0).toUpperCase()+txt.slice(1);
-}
-const reportsScreenV62Base=reportsScreen;
-reportsScreen=function(){
- let html=reportsScreenV62Base();
- const option30='<option value="30">Últimos 30 dias</option>';
- const option90='<option value="90" selected>Últimos 90 dias</option>';
- if(html.includes(option30)){
-  html=html.replace(option30,`<option value="month" selected>Mês atual — ${currentMonthReportLabel()}</option>${option30}`);
-  html=html.replace(option90,'<option value="90">Últimos 90 dias</option>');
- }
- return html;
-};
-/* ===== fim v6.2 ===== */
-
-boot();
+boot().catch(error=>{console.error('Falha ao iniciar GYM',error);try{renderRoot()}catch{const app=document.getElementById('app');if(app)app.innerHTML='<div class="auth-page"><div class="auth-card"><h2>Não foi possível iniciar o GYM</h2><p class="muted">Recarregue a página. Seus dados locais não foram apagados.</p></div></div>'}});

diff --git a/index.html b/index.html
@@ -1,13 +1,13 @@
 <!doctype html><html lang="pt-BR"><head>
 <meta charset="utf-8"><meta name="viewport" content="width=device-width,initial-scale=1,viewport-fit=cover">
-<meta name="theme-color" content="#0b100c"><meta name="msapplication-TileColor" content="#0b100c"><meta name="msapplication-TileImage" content="./gym-icon-v62-192.png"><meta name="format-detection" content="telephone=no"><meta name="mobile-web-app-capable" content="yes"><meta name="application-name" content="GYM"><meta name="apple-mobile-web-app-capable" content="yes"><meta name="apple-mobile-web-app-status-bar-style" content="black-translucent"><meta name="apple-mobile-web-app-title" content="GYM"><meta name="description" content="Treino adaptativo, recuperação muscular, cardio e relatórios.">
-<link rel="manifest" href="./manifest.json?v=6.2" crossorigin="use-credentials">
-<link rel="icon" type="image/x-icon" href="./favicon.ico?v=6.2">
-<link rel="icon" type="image/png" sizes="192x192" href="./gym-icon-v62-192.png?v=6.2">
-<link rel="icon" type="image/png" sizes="512x512" href="./gym-icon-v62-512.png?v=6.2">
-<link rel="shortcut icon" href="./favicon.ico?v=6.2">
-<link rel="apple-touch-icon" sizes="180x180" href="./gym-icon-v62-180.png?v=6.2">
-<link rel="stylesheet" href="styles.css?v=6.2"><title>GYM</title></head><body>
+<meta name="theme-color" content="#0b100c"><meta name="msapplication-TileColor" content="#0b100c"><meta name="msapplication-TileImage" content="./gym-icon-v621-192.png"><meta name="format-detection" content="telephone=no"><meta name="mobile-web-app-capable" content="yes"><meta name="application-name" content="GYM"><meta name="apple-mobile-web-app-capable" content="yes"><meta name="apple-mobile-web-app-status-bar-style" content="black-translucent"><meta name="apple-mobile-web-app-title" content="GYM"><meta name="description" content="Treino adaptativo, recuperação muscular, cardio e relatórios.">
+<link rel="manifest" href="./manifest.json?v=6.2.1" crossorigin="use-credentials">
+<link rel="icon" type="image/x-icon" href="./favicon.ico?v=6.2.1">
+<link rel="icon" type="image/png" sizes="192x192" href="./gym-icon-v621-192.png?v=6.2.1">
+<link rel="icon" type="image/png" sizes="512x512" href="./gym-icon-v621-512.png?v=6.2.1">
+<link rel="shortcut icon" href="./favicon.ico?v=6.2.1">
+<link rel="apple-touch-icon" sizes="180x180" href="./gym-icon-v621-180.png?v=6.2.1">
+<link rel="stylesheet" href="styles.css?v=6.2.1"><title>GYM</title></head><body>
 <svg class="svg-sprite" aria-hidden="true"><defs>
 <symbol id="i-home" viewBox="0 0 24 24"><path d="M3 11 12 3l9 8v9a1 1 0 0 1-1 1h-5v-7H9v7H4a1 1 0 0 1-1-1z"/></symbol>
 <symbol id="i-workout" viewBox="0 0 24 24"><path d="M6 8v8M3 10v4M18 8v8M21 10v4M6 12h12"/></symbol>
@@ -22,4 +22,4 @@
 <symbol id="i-plus" viewBox="0 0 24 24"><path d="M12 5v14M5 12h14"/></symbol><symbol id="i-logout" viewBox="0 0 24 24"><path d="M10 17l5-5-5-5M15 12H3M15 4h5a1 1 0 0 1 1 1v14a1 1 0 0 1-1 1h-5"/></symbol>
 </defs></svg>
 <div id="toast" class="toast"></div><div id="app"></div>
-<script src="https://cdn.jsdelivr.net/npm/@supabase/supabase-js@2"></script><script src="config.js"></script><script src="exercise-images.js?v=6.2"></script><script src="app.js?v=6.2"></script></body></html>
+<script>window.EMYFIT_CONFIG=window.EMYFIT_CONFIG||{};window.addEventListener("error",function(){var a=document.getElementById("app");if(a&&!a.innerHTML){a.innerHTML='<div class="auth-page"><div class="auth-card"><h2>Falha ao carregar o GYM</h2><p class="muted">Atualize a página. Seus dados não foram apagados.</p></div></div>';}});</script><script src="https://cdn.jsdelivr.net/npm/@supabase/supabase-js@2"></script><script src="config.js" onerror="console.warn('config.js não encontrado; iniciando sem nuvem')"></script><script src="exercise-images.js?v=6.2.1"></script><script src="app.js?v=6.2.1"></script></body></html>

diff --git a/service-worker.js b/service-worker.js
@@ -1,30 +1,5 @@
-const CACHE='gym-v6-2-logo-current-month-report';
-const CORE=[
-  './','./index.html','./styles.css','./app.js','./exercise-images.js','./manifest.json','./manifest.webmanifest',
-  './gym-icon-v62-192.png','./gym-icon-v62-512.png','./gym-icon-v62-maskable-512.png','./gym-icon-v62-180.png','./favicon.png','./favicon.ico',
-  './assets/icon-96.png','./assets/icon-128.png','./assets/icon-144.png','./assets/icon-152.png','./assets/icon-192.png','./assets/icon-256.png','./assets/icon-384.png','./assets/icon-512.png','./assets/icon-maskable-512.png',
-  './assets/apple-touch-icon.png','./assets/favicon.png','./assets/favicon.ico'
-];
-self.addEventListener('install',event=>event.waitUntil(
-  caches.open(CACHE).then(cache=>cache.addAll(CORE)).then(()=>self.skipWaiting())
-));
-self.addEventListener('activate',event=>event.waitUntil(
-  caches.keys().then(keys=>Promise.all(keys.filter(key=>key!==CACHE).map(key=>caches.delete(key)))).then(()=>self.clients.claim())
-));
-self.addEventListener('fetch',event=>{
-  if(event.request.method!=='GET')return;
-  const url=new URL(event.request.url);
-  if(url.origin!==location.origin)return;
-  const networkFirst=event.request.mode==='navigate'||/\.(?:js|css|html|json|webmanifest)$/.test(url.pathname)||url.pathname.includes('/assets/exercises/');
-  if(networkFirst){
-    event.respondWith(fetch(event.request,{cache:'no-store'}).then(response=>{
-      if(response.ok){const copy=response.clone();caches.open(CACHE).then(cache=>cache.put(event.request,copy));}
-      return response;
-    }).catch(()=>caches.match(event.request).then(hit=>hit||caches.match('./index.html'))));
-    return;
-  }
-  event.respondWith(caches.match(event.request).then(hit=>hit||fetch(event.request).then(response=>{
-    if(response.ok){const copy=response.clone();caches.open(CACHE).then(cache=>cache.put(event.request,copy));}
-    return response;
-  })));
-});
+const CACHE='gym-v6-2-1-recovery';
+const CORE=['./','./index.html','./styles.css','./app.js','./exercise-images.js','./manifest.json','./manifest.webmanifest','./gym-icon-v621-192.png','./gym-icon-v621-512.png','./gym-icon-v621-maskable-512.png','./gym-icon-v621-180.png'];
+self.addEventListener('install',event=>event.waitUntil((async()=>{const cache=await caches.open(CACHE);await Promise.allSettled(CORE.map(url=>cache.add(url)));await self.skipWaiting()})()));
+self.addEventListener('activate',event=>event.waitUntil((async()=>{const keys=await caches.keys();await Promise.all(keys.filter(key=>key!==CACHE).map(key=>caches.delete(key)));await self.clients.claim()})()));
+self.addEventListener('fetch',event=>{if(event.request.method!=='GET')return;const url=new URL(event.request.url);if(url.origin!==location.origin)return;const networkFirst=event.request.mode==='navigate'||/\.(?:js|css|html|json|webmanifest)$/.test(url.pathname);if(networkFirst){event.respondWith(fetch(event.request,{cache:'no-store'}).then(r=>{if(r.ok)caches.open(CACHE).then(c=>c.put(event.request,r.clone()));return r}).catch(()=>caches.match(event.request).then(hit=>hit||caches.match('./index.html'))));return}event.respondWith(caches.match(event.request).then(hit=>hit||fetch(event.request).then(r=>{if(r.ok)caches.open(CACHE).then(c=>c.put(event.request,r.clone()));return r})))})

diff --git a/styles.css b/styles.css
@@ -256,10 +256,3 @@ body{background:radial-gradient(circle at 75% -10%,rgba(118,220,85,.08),transpar
 .v61-session-progress span{font-size:16px;color:var(--ink);font-weight:900;line-height:1.05}
 @media(max-width:390px){.v61-workout-session{grid-template-columns:1fr auto;gap:9px}.v61-session-progress{display:none}.v61-workout-session .btn{padding:10px 12px}}
 /* ===== fim do patch v6.1 ===== */
-
-
-/* ===== GYM v6.2 — logo sem deformação ===== */
-.gym-brand-img{display:block;width:100%;height:100%;object-fit:contain!important;border-radius:inherit}
-.premium-logo,.premium-logo-small,.auth-logo.premium-logo{padding:0!important;overflow:hidden;background:#0b100c!important}
-.premium-logo img,.premium-logo-small img,.auth-logo.premium-logo img{width:100%!important;height:100%!important;object-fit:contain!important;padding:0!important;margin:0!important;background:#0b100c!important}
-/* ===== fim v6.2 ===== */

diff --git a/README.md b/README.md
@@ -32,7 +32,3 @@ Atualização individual com nova identidade neutra, evolução corporal avança
 - Novo ícone do app e do PWA.
 - Tempo da sessão integrado ao cabeçalho do treino, sem painel solto no topo.
 - Cache/manifesto atualizados para melhorar a troca do ícone instalado.
-
-
-## v6.2
-Nova identidade de ícone consistente no PWA e na interface; relatório do mês atual adicionado.
